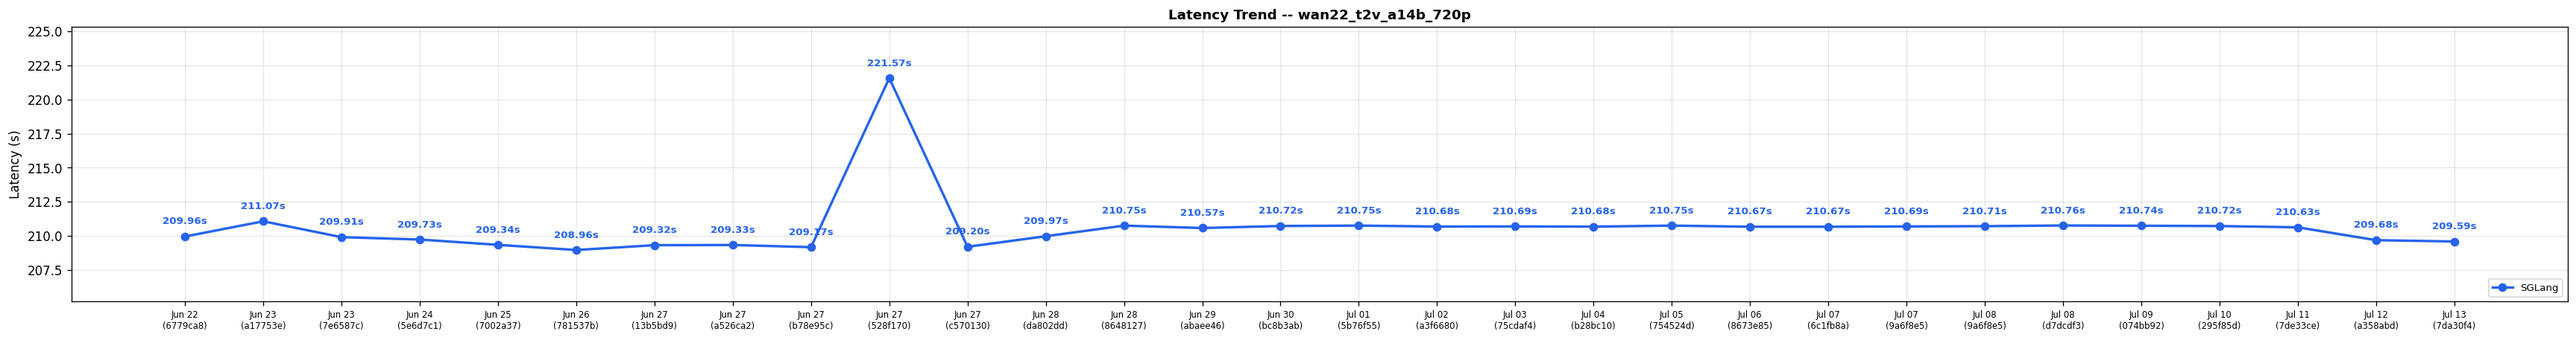
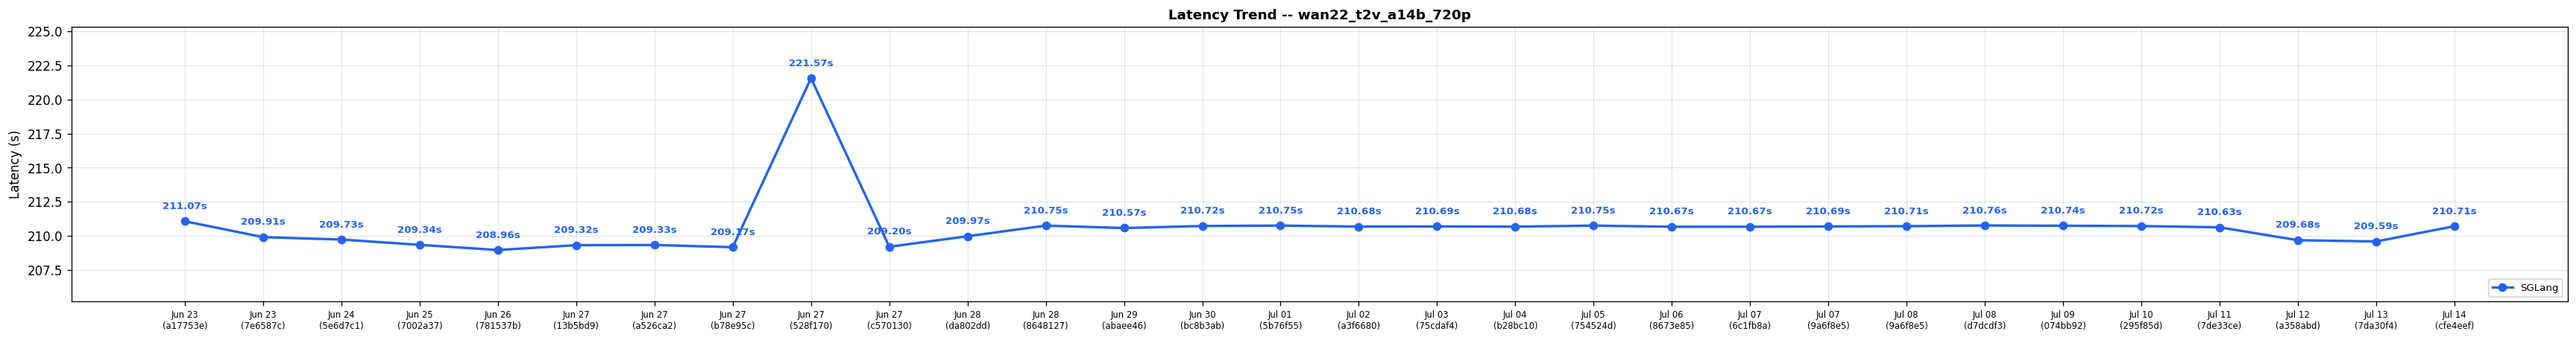
Diffusion comparison results for run 29296550669 (#715)

diff --git a/diffusion-comparisons/dashboard.md b/diffusion-comparisons/dashboard.md
@@ -1,22 +1,29 @@
 # SGLang-Diffusion Nightly Performance Dashboard
 
-*Generated: Jul 13 | Commit: `7da30f4`*
+*Generated: Jul 14 | Commit: `cfe4eef`*
+
+> [!WARNING]
+> **Performance Regression Detected**
+>
+> - **qwen_image_2512_t2i_1024** (sglang): 8.77s -> 10.73s (+22.3%)
+> - **ltx2.3_twostage_ti2v_2gpus** (sglang): 13.05s -> 17.08s (+30.8%)
+
 
 ## SGLang-Diffusion Performance
 
 | Model | Risk | sglang (s) |
 |-------|------|---------|
-| FLUX.1-dev | ✅ | **4.83** |
-| FLUX.2-dev | ✅ | **14.38** |
-| Qwen-Image-2512 | ✅ | **8.77** |
-| Qwen-Image-Edit-2511 | ✅ | **15.27** |
-| Z-Image-Turbo | ✅ | **0.81** |
-| Wan2.2-T2V-A14B-Diffusers | ✅ | **209.59** |
-| Wan2.2-TI2V-5B-Diffusers | ✅ | **64.19** |
-| LTX-2.3 | ✅ | **13.05** |
-| ideogram-4-fp8 | ✅ | **5.31** |
-| Cosmos3-Super | ✅ | **115.36** |
-| Wan2.2-I2V-A14B-Diffusers | ✅ | **204.64** |
+| FLUX.1-dev | ✅ | **4.87** |
+| FLUX.2-dev | ✅ | **14.47** |
+| Qwen-Image-2512 | ⚠ | **10.73** |
+| Qwen-Image-Edit-2511 | ✅ | **15.40** |
+| Z-Image-Turbo | ✅ | **0.84** |
+| Wan2.2-T2V-A14B-Diffusers | ✅ | **210.71** |
+| Wan2.2-TI2V-5B-Diffusers | ✅ | **65.23** |
+| LTX-2.3 | ⚠ | **17.08** |
+| ideogram-4-fp8 | ✅ | **5.36** |
+| Cosmos3-Super | ✅ | **115.38** |
+| Wan2.2-I2V-A14B-Diffusers | ✅ | **204.63** |
 
 ### Latency Trend: flux1_dev_t2i_1024
 
@@ -77,6 +84,7 @@
 
 | Date | Commit | flux1_dev_t2i_1024 (s) | flux2_dev_t2i_1024 (s) | qwen_image_2512_t2i_1024 (s) | qwen_image_edit_2511 (s) | zimage_turbo_t2i_1024 (s) | wan22_t2v_a14b_720p (s) | wan22_ti2v_5b_720p (s) | ltx2.3_twostage_ti2v_2gpus (s) | ideogram4_fp8_t2i_2gpu (s) | cosmos3_super_t2v_2gpu (s) | wan22_i2v_a14b_720p (s) | Trend |
 |------|--------|---------|---------|---------|---------|---------|---------|---------|---------|---------|---------|---------|-------|
+| Jul 14 | `cfe4eef` | 4.87 | 14.47 | 10.73 | 15.40 | 0.84 | 210.71 | 65.23 | 17.08 | 5.36 | 115.38 | 204.63 | :left_right_arrow:  :left_right_arrow:  :arrow_up:  :left_right_arrow:  :arrow_up:  :left_right_arrow:  :left_right_arrow:  :arrow_up:  :left_right_arrow:  :left_right_arrow:  :left_right_arrow: |
 | Jul 13 | `7da30f4` | 4.83 | 14.38 | 8.77 | 15.27 | 0.81 | 209.59 | 64.19 | 13.05 | 5.31 | 115.36 | 204.64 | :left_right_arrow:  :left_right_arrow:  :left_right_arrow:  :left_right_arrow:  :left_right_arrow:  :left_right_arrow:  :left_right_arrow:  :left_right_arrow:  :left_right_arrow:  :left_right_arrow:  :left_right_arrow: |
 | Jul 12 | `a358abd` | 4.84 | 14.35 | 8.75 | 15.28 | 0.81 | 209.68 | 64.18 | 13.06 | 5.32 | 114.39 | 203.71 | :left_right_arrow:  :left_right_arrow:  :left_right_arrow:  :left_right_arrow:  :left_right_arrow:  :left_right_arrow:  :left_right_arrow:  :left_right_arrow:  :left_right_arrow:  :arrow_down:  :left_right_arrow: |
 | Jul 11 | `7de33ce` | 4.85 | 14.49 | 8.81 | 15.38 | 0.81 | 210.63 | 65.23 | 13.06 | 5.34 | 118.39 | 204.69 | :left_right_arrow:  :left_right_arrow:  :left_right_arrow:  :left_right_arrow:  :left_right_arrow:  :left_right_arrow:  :left_right_arrow:  :left_right_arrow:  :left_right_arrow:  :arrow_down:  :left_right_arrow: |
@@ -105,8 +113,15 @@
 | Jun 25 | `7002a37` | 4.68 | 14.32 | 12.75 | 23.62 | 0.66 | 209.34 | 64.22 | 15.06 | N/A | N/A | 204.64 | :left_right_arrow:  :left_right_arrow:  :left_right_arrow:  :left_right_arrow:  :arrow_up:  :left_right_arrow:  :left_right_arrow:  :arrow_up:    :left_right_arrow: |
 | Jun 24 | `5e6d7c1` | 4.68 | 14.36 | 12.82 | 23.75 | 0.64 | 209.73 | 65.22 | 14.06 | N/A | N/A | 205.65 | :left_right_arrow:  :left_right_arrow:  :left_right_arrow:  :left_right_arrow:  :left_right_arrow:  :left_right_arrow:  :left_right_arrow:  :left_right_arrow:    :left_right_arrow: |
 | Jun 23 | `7e6587c` | 4.68 | 14.35 | 12.84 | 23.79 | 0.64 | 209.91 | 65.20 | 14.05 | N/A | N/A | 205.65 | :left_right_arrow:  :left_right_arrow:  :left_right_arrow:  :left_right_arrow:  :left_right_arrow:  :left_right_arrow:  :left_right_arrow:  :left_right_arrow:    :left_right_arrow: |
-| Jun 23 | `a17753e` | 4.68 | 14.34 | 12.80 | 23.72 | 0.64 | 211.07 | 65.22 | 14.05 | N/A | N/A | 205.68 | :left_right_arrow:  :left_right_arrow:  :left_right_arrow:  :left_right_arrow:  :left_right_arrow:  :left_right_arrow:  :left_right_arrow:  :left_right_arrow:    :left_right_arrow: |
-| Jun 22 | `6779ca8` | 4.65 | 14.37 | 12.83 | 23.76 | 0.64 | 209.96 | 65.23 | 14.05 | N/A | N/A | 205.58 | -- |
+| Jun 23 | `a17753e` | 4.68 | 14.34 | 12.80 | 23.72 | 0.64 | 211.07 | 65.22 | 14.05 | N/A | N/A | 205.68 | -- |
+
+> [!CAUTION]
+> **Action Required — Performance Alert**
+>
+> The following cases need attention:
+> - qwen_image_2512_t2i_1024: SGLang regression +22.2% vs 3-run avg (10.73s vs 8.78s)
+> - ltx2.3_twostage_ti2v_2gpus: SGLang regression +30.8% vs 3-run avg (17.08s vs 13.06s)
+
 
 ---
 *Generated by `generate_diffusion_dashboard.py` in SGLang nightly CI.*
